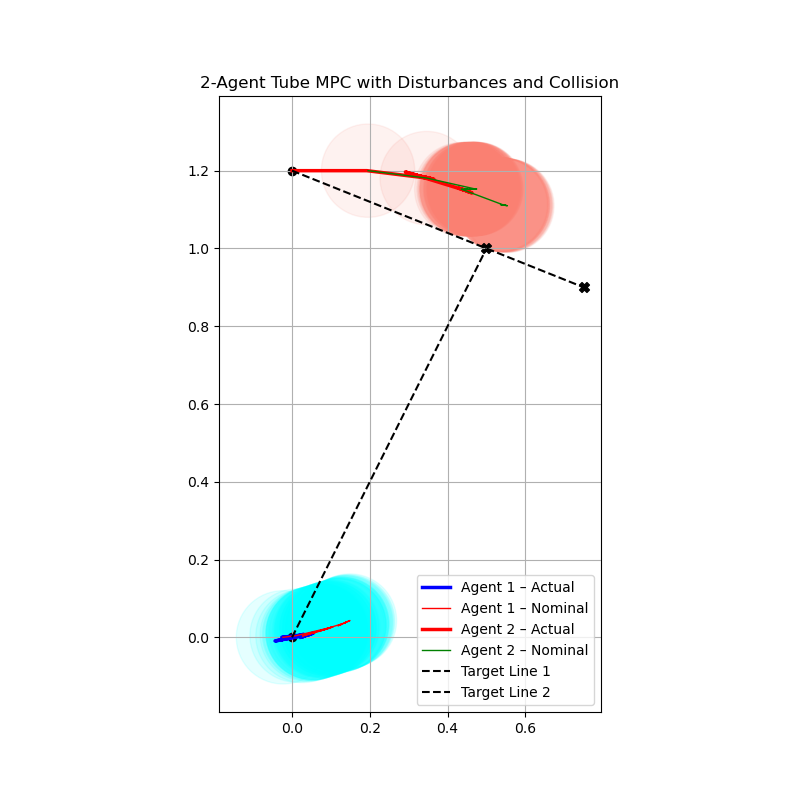
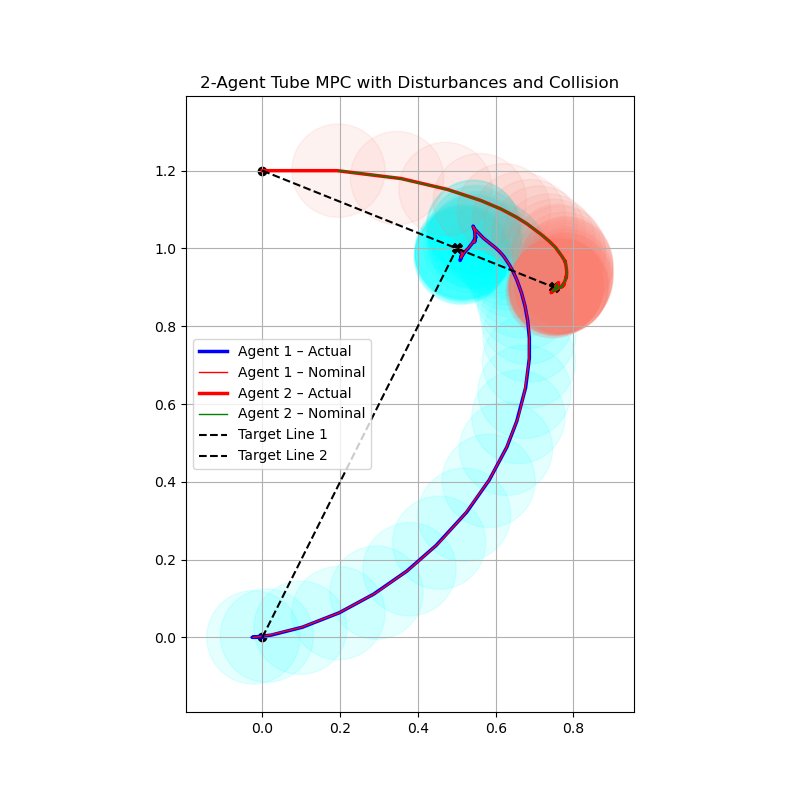
Rule-based Collision Avoidance (Agent 1 has higher priority, Agent 2 diverted dynamically)

diff --git a/mpc/simulate_with_mpc.py b/mpc/simulate_with_mpc.py
@@ -83,11 +83,14 @@ for step in range(50):
                 print(f"[WARNING] Collision risk! Distance = {distance:.3f} < {min_separation}")
 
                 # Example strategy: stop both agents or change their velocity
-                u_nom_seq1 = np.zeros_like(u_nom_seq1)  # stop agent 1
-                u_nom_seq2 = np.zeros_like(u_nom_seq2)  # stop agent 2
+                # u_nom_seq1 = np.zeros_like(u_nom_seq1)  # stop agent 1
+                # u_nom_seq2 = np.zeros_like(u_nom_seq2)  # stop agent 2
 
                 # Or take evasive action
-                # u1 = evasion_strategy(x1, x2, ...)
+                # 1. Apply soft repulsion to agent 2 only (assume agent 1 has higher priority)
+                evade_dir = (pos2 - pos1) / (distance + 1e-6)
+                u_nom_seq2[:2] += 0.3 * evade_dir[:, np.newaxis]
+
             else:
                 # Proceed with computed controls u1 and u2
                 pass
@@ -172,9 +175,9 @@ plt.scatter(*trajectory2[0,:2], c='black', marker='o')
 plt.scatter(*target2, c='black', marker='X', s=50)
 
 plt.grid()
-plt.title("2-Agent Tube MPC with Disturbances and Collision")
+plt.title("2-Agent Tube MPC with Disturbances and Collision Avoidance (STL)")
 plt.legend()
-plt.savefig("tube_mpc_multi_vehicle_with_collision.png")
+plt.savefig("tube_mpc_multi_vehicle_no_collision_stl.png")
 plt.show()
 
 #
